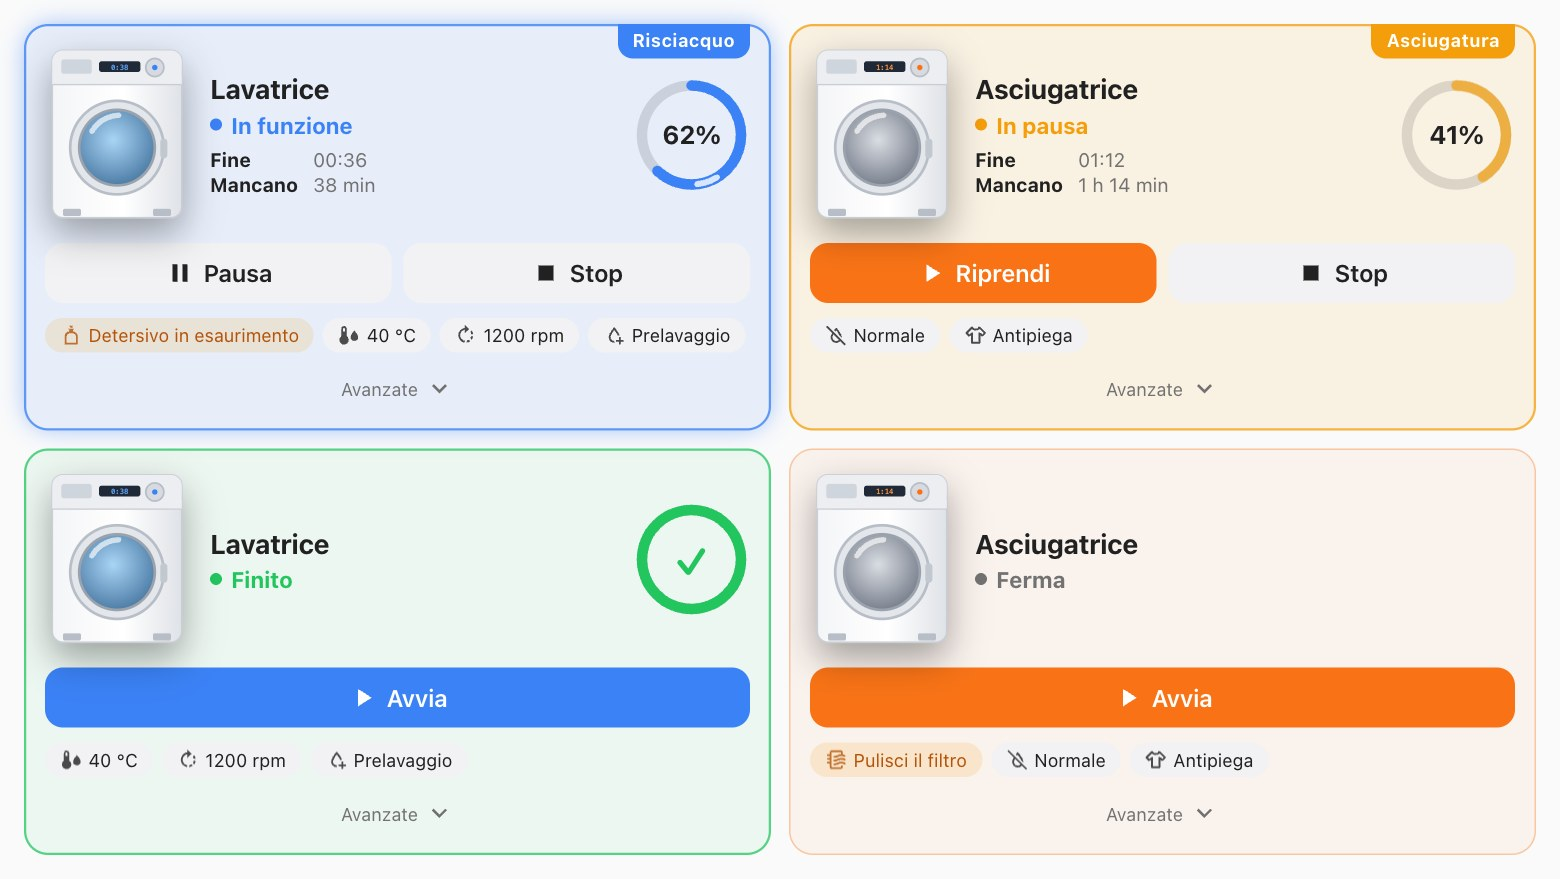
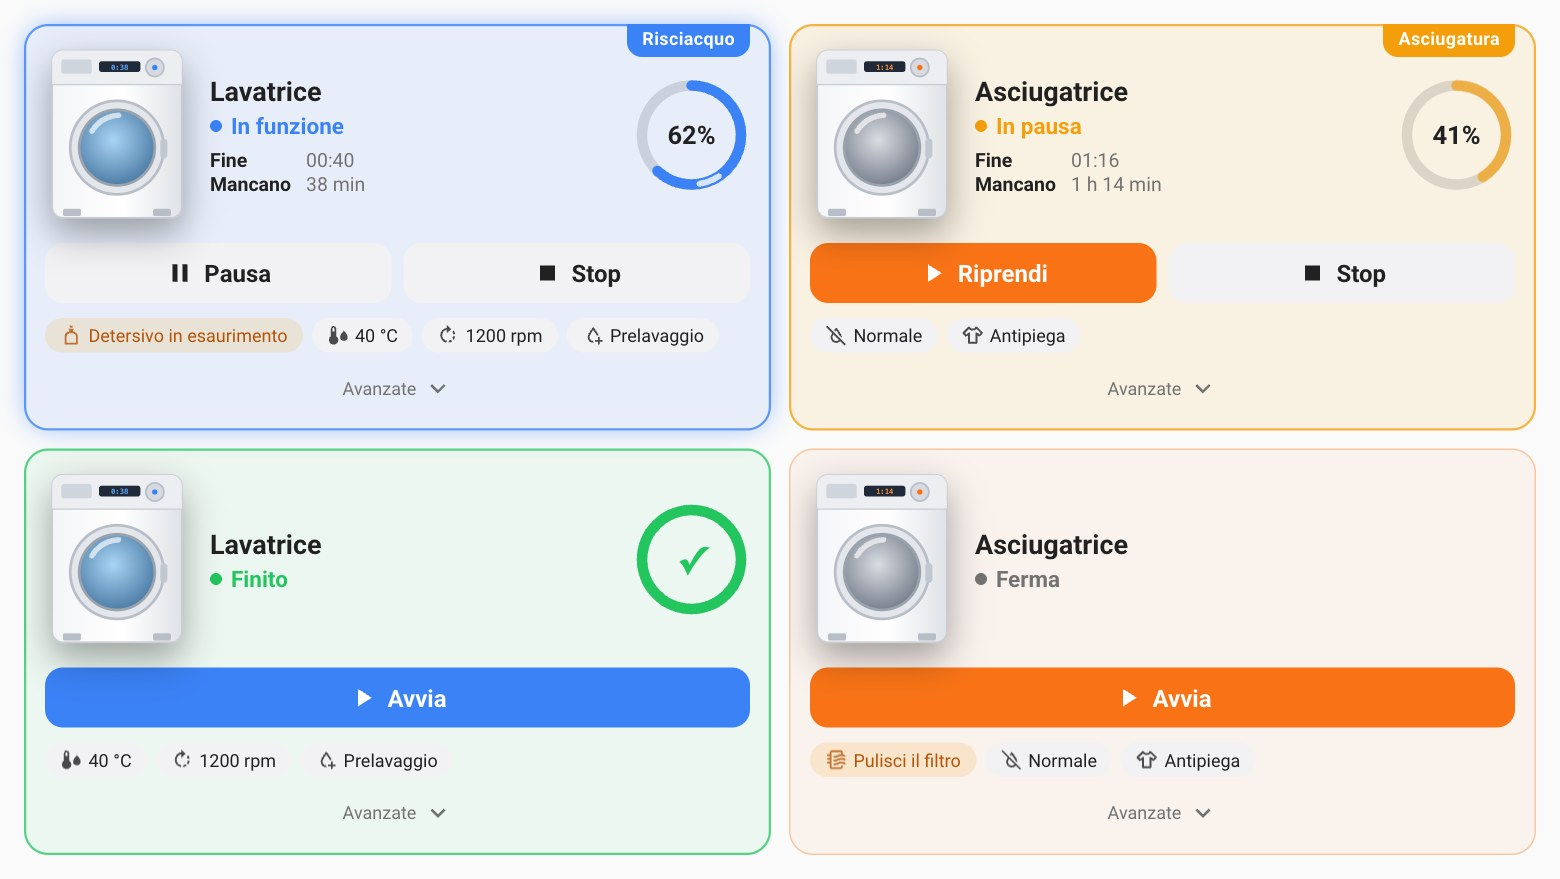
docs: screenshots in Roboto, Home Assistant's font
The demo loads Roboto from @fontsource/roboto instead of relying on a local
install, and the screenshot script refuses to shoot until it has loaded.

diff --git a/demo/index.html b/demo/index.html
@@ -27,8 +27,12 @@
       --secondary-text-color: #9b9b9b;
       --divider-color: rgba(225, 225, 225, 0.12);
     }
+    /* Home Assistant's font, from @fontsource/roboto: the screenshots must look like the real thing. */
+    @font-face { font-family: Roboto; font-weight: 400; font-display: block; src: url(/node_modules/@fontsource/roboto/files/roboto-latin-400-normal.woff2) format("woff2"); }
+    @font-face { font-family: Roboto; font-weight: 500; font-display: block; src: url(/node_modules/@fontsource/roboto/files/roboto-latin-500-normal.woff2) format("woff2"); }
+    @font-face { font-family: Roboto; font-weight: 700; font-display: block; src: url(/node_modules/@fontsource/roboto/files/roboto-latin-700-normal.woff2) format("woff2"); }
     html, body { margin: 0; background: var(--primary-background-color); }
-    body { font-family: Roboto, "Segoe UI", system-ui, -apple-system, sans-serif; -webkit-font-smoothing: antialiased; }
+    body { font-family: Roboto, sans-serif; -webkit-font-smoothing: antialiased; }
     #stage { padding: 16px; box-sizing: border-box; margin: 0 auto; display: grid; gap: 12px; grid-template-columns: repeat(var(--cols, 2), 1fr); }
   </style>
 </head>
